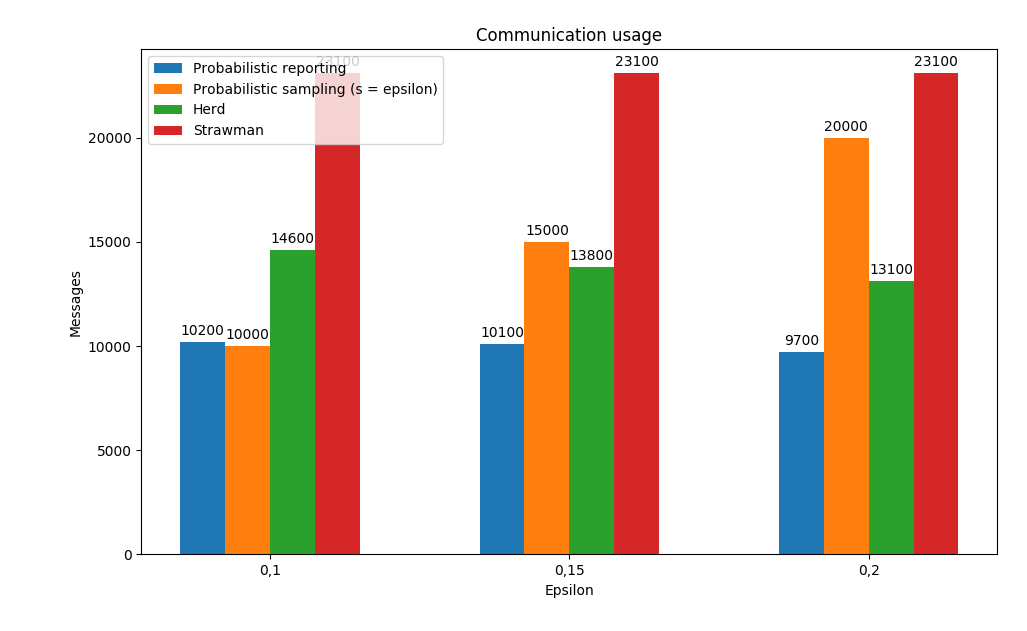
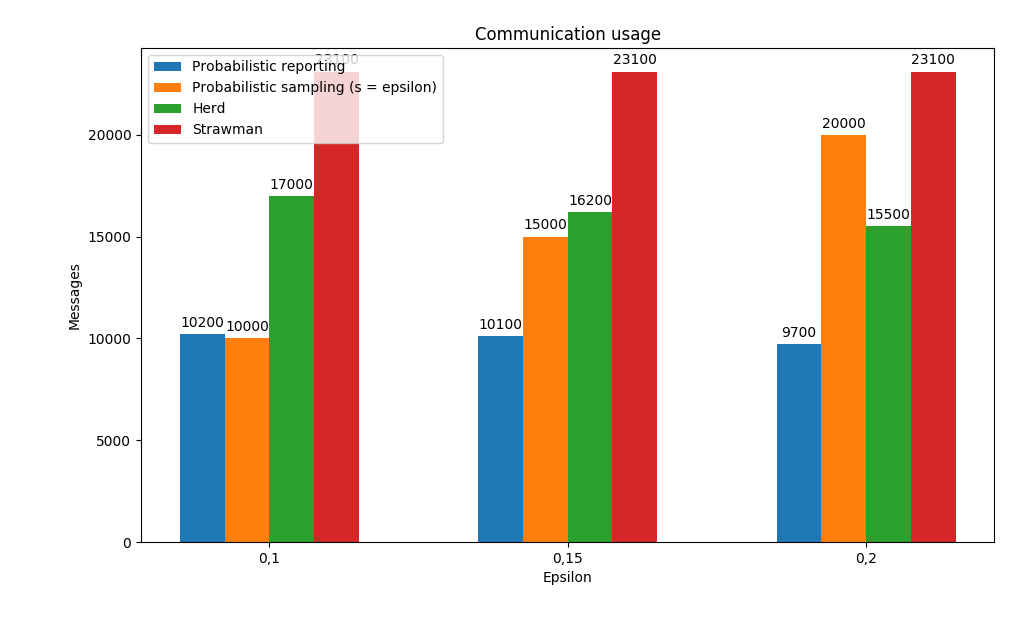
count fix

diff --git a/report/report.tex b/report/report.tex
@@ -310,7 +310,7 @@ To finish our evaluation we compared our Herd performance against the alternativ
 The comparison between the bandwidth usage of the different approaches is done by comparing how many messages each approach generates. From \ref{fig:messages_generated}, which shows the generated messages for different $\epsilon$ values which lead to similar F1 scores (for probabilistic sampling we set the sampling probability equal to $\epsilon$), we can make several observations:\newline
 1) Herd is substantially better than the strawman approach. \newline
 2) Herd scales better than probabilistic sampling, as we can reduce the needed communication via epsilon and the report probability. Probabilistic sampling can only reduce the sampling probability to generate fewer messages which quickly leads to deteriorating F1 scores.\newline
-3) The difference between Herd and probabilistic reporting mainly stems from the hello messages overhead. We can approximate them by: $hellos\_generated = group\_nr * L$, which is around 4600 messages in our dataset (with L = 2). Since the number of groups grows much slower than the number of flows, this overhead should become less significant with bigger datasets or larger time windows. Therefore we can conclude that Herd and probabilistic reporting will stay competitive in regard to communication, while Herd has a clear advantage since it requires less memory.
+3) The difference between Herd and probabilistic reporting mainly stems from the hello messages overhead, which was around 7000 for our setup. Since we can upper bound the generated messages by $hellos\_generated < group_nr * k$, and the number of groups grows much slower than the number of flows, this overhead should become less significant with bigger datasets or larger time windows. Therefore we can conclude that Herd and probabilistic reporting will stay competitive in regard to communication, while Herd has a clear advantage since it requires less memory.
 
 \section{Conclusion}
 

diff --git a/src/controller/herd_controller.py b/src/controller/herd_controller.py
@@ -308,7 +308,6 @@ class HerdController(object):
                 srcGroup, dstGroup = self.extract_group(flow)
                 group = (srcGroup, dstGroup)
                 if flow_count == 0:
-                    self.hellos += 1
                     # only send a hello if we havent sent a hello yet for this flow
                     if flow not in self.seen_flows:
                         self.hellos += 1

diff --git a/evaluation/counters/plot_bar.py b/evaluation/counters/plot_bar.py
@@ -6,7 +6,7 @@ import numpy as np
 labels = ['0,1', '0,15', '0,2']
 rla_comm = [10200, 10100, 9700]
 ps_comm = [10000, 15000, 20000]
-herd_comm = [14600, 13800, 13100]
+herd_comm = [17000, 16200, 15500]
 strawman_comm = [23100,23100,23100]
 
 labels_mem = ['0,1', '0,15', '0,2']
